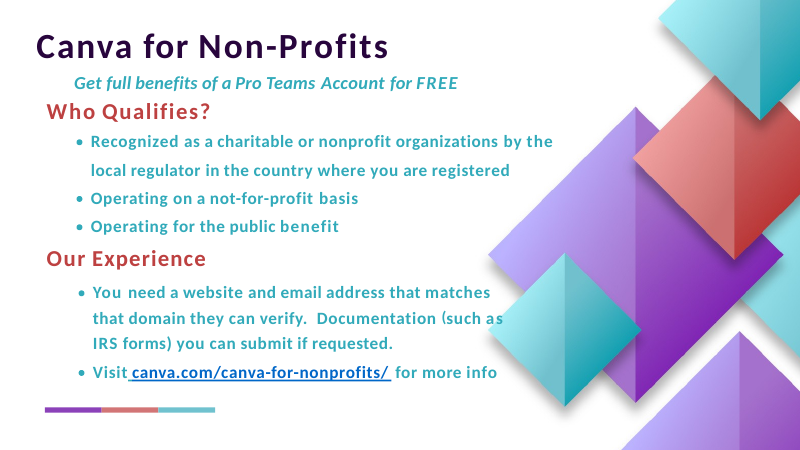
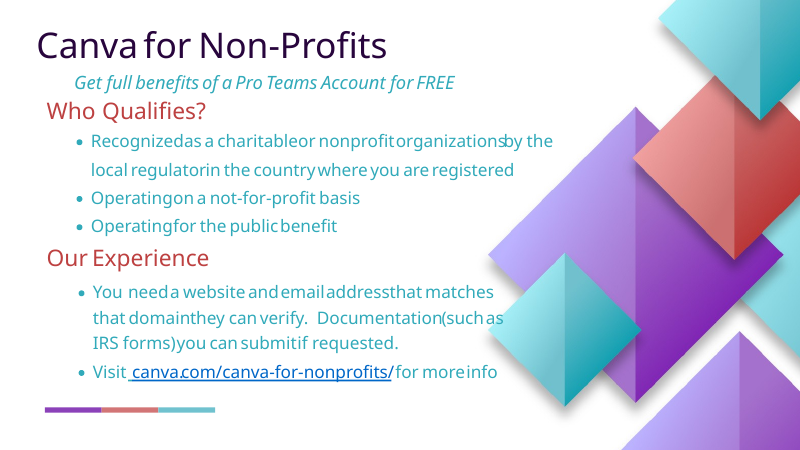
fix: keep Office cloud fonts and close the Hebrew gap
Microsoft 365 downloads Lato and Anton. Rewriting them to Calibri changed the face on canva page 8. Those names stay, and spacing stays at the PDF advance.

Page 1 had been merged and renamed to Noto Sans. v1.4.9 kept the Anton fragments at their PDF x. The name is Anton again.

The comma rejoins בניווט, so the gap after באיתור is 6.7 pt.

diff --git a/converter/gopdf2/fit.go b/converter/gopdf2/fit.go
@@ -21,10 +21,10 @@ func fitRun(family string, bold, italic bool, size, pdfWidth float64, text strin
 	if size < 0.5 || pdfWidth < 0.5 || strings.TrimSpace(text) == "" {
 		return family, size, 0
 	}
-	// Lato is fitted after lines merge, against the whole box, in Calibri.
-	// Fitting each glyph here renamed it to Noto Sans and shrank the em,
-	// and PowerPoint's wider substitute then ran into the next word.
-	if isLato(family) {
+	// Office cloud fonts are downloaded by Microsoft 365. Renaming them
+	// to Noto Sans or Calibri draws a different face. The PDF advances
+	// already are that face, so the size and spacing stay.
+	if isOfficeCloudFont(family) {
 		return family, size, 0
 	}
 	family = preferMetricFamily(family)
@@ -53,83 +53,63 @@ func fitRun(family string, bold, italic bool, size, pdfWidth float64, text strin
 // trackingFor returns the font size and per-character tracking (points) that
 // make measured ink match pdfWidth. Spacing is applied between characters,
 // not after the last one.
-// isLato reports a Canva Lato face. PowerPoint 2016 does not download the
-// Lato cloud font (that starts with Office 2019). A missing latin face is
-// substituted from the theme, which is Calibri. Carlito has Calibri's metrics.
-func isLato(family string) bool {
-	return strings.Contains(strings.ToLower(family), "lato")
+
+// officeCloudFonts are faces Microsoft 365 downloads on demand into
+// AppData\Local\Microsoft\FontCache\4\CloudFonts. The PDF advances are
+// that face, so the typeface name stays and spc stays near zero.
+// Faces that are not in this list still fall back to Calibri or the
+// local metric match.
+var officeCloudFonts = []string{
+	"lato",
+	"anton",
+	"montserrat",
+	"open sans",
+	"roboto",
+	"poppins",
+	"oswald",
+	"raleway",
+	"nunito",
+	"inter",
+	"source sans",
 }
 
-func latoIsBold(family string, bold bool) bool {
+func isOfficeCloudFont(family string) bool {
 	n := strings.ToLower(family)
-	return bold || strings.Contains(n, "black") || strings.Contains(n, "heavy") || strings.Contains(n, "bold")
+	n = strings.ReplaceAll(n, "-", " ")
+	for _, f := range officeCloudFonts {
+		if strings.Contains(n, f) {
+			return true
+		}
+	}
+	return false
 }
 
-// fitLatoToCalibri sets Calibri and the character spacing that makes
-// PowerPoint's advance end at the next glyph's PDF x. The box itself is
-// not moved or widened. Spacing is between characters, matching a:rPr spc.
-func fitLatoToCalibri(p *Page) {
-	var refs []textRef
+// fitCloudFontSpacing sets a:rPr spc from the real font, when that font
+// is installed here, against the PDF width. Lato is not installed on the
+// build machine; its PDF widths already match the cloud font, so spc
+// stays 0. The typeface name is not rewritten.
+func fitCloudFontSpacing(p *Page) {
 	for i := range p.Elements {
 		t := p.Elements[i].Text
-		if t == nil || t.Vertical || !horizontal(t.Rotation) {
+		if t == nil || t.Vertical || !isOfficeCloudFont(t.FontName) || t.Width < 0.5 || strings.TrimSpace(t.Content) == "" {
 			continue
 		}
-		refs = append(refs, textRef{i, t})
-	}
-	sortRefs(refs)
-	for i := range refs {
-		t := refs[i].t
-		if t.RTL || !isLato(t.FontName) || t.Width < 0.5 || strings.TrimSpace(t.Content) == "" {
-			continue
-		}
-		if len(t.Runs) > 1 {
-			uniform := true
-			for _, r := range t.Runs {
-				if !isLato(r.FontName) || math.Abs(r.FontSize-t.FontSize) > math.Max(t.FontSize*0.08, 0.4) {
-					uniform = false
-					break
-				}
-			}
-			if !uniform {
-				continue
-			}
-			t.Runs = nil
-		}
-		target := t.Width
-		for j := i + 1; j < len(refs); j++ {
-			n := refs[j].t
-			if !sameLine(t, n) || n.X <= t.X+0.5 {
-				continue
-			}
-			if n.X-t.X < target {
-				target = n.X - t.X
-			}
-			break
-		}
-		bold := latoIsBold(t.FontName, t.Bold)
-		italic := t.Italic || strings.Contains(strings.ToLower(t.FontName), "italic") || strings.Contains(strings.ToLower(t.FontName), "oblique")
-		path, _, ok := matchSystemFont("Carlito", bold, italic)
-		if !ok {
+		path, resolved, ok := matchSystemFont(t.FontName, t.Bold, t.Italic)
+		if !ok || !fontNamesClose(t.FontName, resolved) {
+			t.Tracking = 0
 			continue
 		}
 		measured, covered := measureText(path, t.FontSize, t.Content)
 		if !covered || measured < 0.5 {
+			t.Tracking = 0
 			continue
 		}
 		gaps := utf8.RuneCountInString(t.Content) - 1
-		if gaps < 1 {
-			if target > 0.5 {
-				t.FontSize *= target / measured
-			}
+		if gaps < 1 || math.Abs(measured-t.Width)/t.Width < 0.015 {
 			t.Tracking = 0
-		} else {
-			sp := math.Round((target-measured)/float64(gaps)*100) / 100
-			t.Tracking = sp
+			continue
 		}
-		t.FontName = "Calibri"
-		t.Bold = bold
-		t.Italic = italic
+		t.Tracking = math.Round((t.Width-measured)/float64(gaps)*100) / 100
 	}
 }
 

diff --git a/converter/gopdf2/paint_test.go b/converter/gopdf2/paint_test.go
@@ -392,6 +392,24 @@ func TestHebrewReadingOrder(t *testing.T) {
 			pageText.WriteString(tb.Content)
 			all.WriteString(tb.Content)
 		}
+		if i == 12 {
+			var baitor, binyan *TextObject
+			for _, tb := range pg.TextObjects {
+				if strings.Contains(tb.Content, "באיתור") {
+					baitor = tb
+				}
+				if strings.Contains(tb.Content, "בניווט") {
+					binyan = tb
+				}
+			}
+			if baitor == nil || binyan == nil {
+				t.Fatal("page 13 lost באיתור or בניווט")
+			}
+			gap := binyan.X - (baitor.X + baitor.Width)
+			if gap < 4 || gap > 10 {
+				t.Fatalf("page 13 gap %.1f, want about 6.7", gap)
+			}
+		}
 		if at := touchAt(pageText.String()); at >= 0 {
 			s := pageText.String()
 			lo, hi := at-8, at+12
@@ -515,12 +533,12 @@ func TestCanvaRotaryWordsAreNotClipped(t *testing.T) {
 			t.Fatalf("page 16 lost %q", word)
 		}
 	}
-	// Lato is drawn as Calibri, spaced so the advance equals the PDF width.
-	// A wider substitute otherwise runs "nonprofit" into "organizations".
+	// Microsoft 365 has Lato. The run keeps that name and no extra spacing,
+	// so the cloud font's own advances land on the PDF x.
 	for _, word := range []string{"nonprofit ", "Account ", "not-for-profit "} {
 		var tb *TextObject
 		for _, c := range p.TextObjects {
-			if c.Content == word {
+			if strings.TrimSpace(c.Content) == strings.TrimSpace(word) {
 				tb = c
 				break
 			}
@@ -528,37 +546,11 @@ func TestCanvaRotaryWordsAreNotClipped(t *testing.T) {
 		if tb == nil {
 			t.Fatalf("missing %q", word)
 		}
-		if tb.FontName != "Calibri" {
+		if !isOfficeCloudFont(tb.FontName) || tb.FontName == "Calibri" || tb.FontName == "Noto Sans" {
 			t.Fatalf("%q font %q", word, tb.FontName)
 		}
-		path, _, ok := matchSystemFont("Carlito", tb.Bold, tb.Italic)
-		if !ok {
-			t.Fatal("carlito missing")
-		}
-		measured, covered := measureText(path, tb.FontSize, tb.Content)
-		if !covered {
-			t.Fatalf("%q unmeasured", word)
-		}
-		gaps := len([]rune(tb.Content)) - 1
-		got := measured
-		if gaps > 0 {
-			got += tb.Tracking * float64(gaps)
-		}
-		// The advance ends at the next word's PDF x, not past it.
-		limit := tb.Width
-		for _, n := range p.TextObjects {
-			if n == tb || n.X <= tb.X+0.5 {
-				continue
-			}
-			if math.Abs((n.Y+n.FontSize)-(tb.Y+tb.FontSize)) > math.Max(1.25, tb.FontSize*0.18) {
-				continue
-			}
-			if n.X-tb.X < limit {
-				limit = n.X - tb.X
-			}
-		}
-		if math.Abs(got-limit) > 1.5 {
-			t.Fatalf("%q calibri %.1f, room %.1f", word, got, limit)
+		if math.Abs(tb.Tracking) > 0.05 {
+			t.Fatalf("%q tracking %.2f", word, tb.Tracking)
 		}
 	}
 }

diff --git a/converter/gopdf2/merge.go b/converter/gopdf2/merge.go
@@ -140,7 +140,10 @@ func contiguous(g []textRef, t *TextObject) bool {
 	prev := g[len(g)-1].t
 	// An uncovered parenthesis keeps the x it was drawn at. Merging it
 	// back into the run on either side paints it on top of z₁.
-	if prev.holdX || t.holdX {
+	// A comma beside a Hebrew word is one phrase. holdX would leave it
+	// as its own box and open a gap (בניווט sat 16.6 pt from באיתור;
+	// v1.5.3 had 6.65 pt).
+	if (prev.holdX || t.holdX) && !punctBesideHebrew(prev, t) {
 		return false
 	}
 	// "t " is the last letter of "nonprofit", painted at its own PDF x.
@@ -282,6 +285,21 @@ func nearestBody(ts []*TextObject, i int) *TextObject {
 		}
 	}
 	return nil
+}
+
+func punctBesideHebrew(a, b *TextObject) bool {
+	// A bullet stays its own box so a one-letter prefix (ו) still
+	// concatenates onto the next word ("ולוודא").
+	ac, bc := commaish(a.Content), commaish(b.Content)
+	if ac == bc {
+		return false
+	}
+	return hasRTLScript(a.Content) || hasRTLScript(b.Content)
+}
+
+func commaish(s string) bool {
+	s = strings.TrimSpace(s)
+	return s == "," || s == "،" || s == ":"
 }
 
 func isSpacer(s string) bool {
@@ -982,10 +1000,10 @@ func pullBackOverlaps(p *Page) {
 		// points. Only a real collision (Andy through Morodo) is pulled back.
 		// Never move the next box. v1.5.4 parked it on this box's right
 		// edge, and every later word shifted ("youregistered", kaist p18).
-		// Lato is drawn in Calibri, spaced to this PDF width. Shortening
-		// the box clips the last letter; widening it lets that letter
-		// run into the next word.
-		if isLato(a.FontName) {
+		// A cloud font is drawn at the PDF width. Shortening the box
+		// clips the last letter; widening it lets that letter run
+		// into the next word.
+		if isOfficeCloudFont(a.FontName) {
 			continue
 		}
 		wordEdge := strings.HasSuffix(a.Content, " ") || strings.HasPrefix(b.Content, " ")

diff --git a/converter/gopdf2/fit_test.go b/converter/gopdf2/fit_test.go
@@ -33,28 +33,21 @@ func TestModerateMismatchDoesNotCondense(t *testing.T) {
 	}
 }
 
-func TestLatoRunFitsCalibriToPDFWidth(t *testing.T) {
+func TestLatoKeepsItsName(t *testing.T) {
 	tb := &TextObject{Content: "nonprofit ", FontName: "Lato-Black", FontSize: 34.7, X: 573.7, Y: 231, Width: 149.6, Height: 40}
 	p := &Page{Elements: []PageElement{{Text: tb}}}
-	fitLatoToCalibri(p)
-	if tb.FontName != "Calibri" || !tb.Bold {
-		t.Fatalf("font %q bold %v", tb.FontName, tb.Bold)
+	fitCloudFontSpacing(p)
+	if tb.FontName != "Lato-Black" {
+		t.Fatalf("font rewritten to %q", tb.FontName)
+	}
+	if tb.Tracking != 0 {
+		t.Fatalf("lato spacing %v, want 0 when the face is not installed", tb.Tracking)
 	}
 	if tb.X != 573.7 || math.Abs(tb.Width-149.6) > 0.1 {
 		t.Fatalf("box moved: x %.1f w %.1f", tb.X, tb.Width)
 	}
-	path, _, ok := matchSystemFont("Carlito", true, false)
-	if !ok {
-		t.Fatal("carlito missing")
-	}
-	measured, covered := measureText(path, tb.FontSize, tb.Content)
-	if !covered {
-		t.Fatal("unmeasured")
-	}
-	gaps := len([]rune(tb.Content)) - 1
-	got := measured + tb.Tracking*float64(gaps)
-	if math.Abs(got-tb.Width) > 0.6 {
-		t.Fatalf("calibri advance %.2f, pdf width %.2f, tracking %.2f", got, tb.Width, tb.Tracking)
+	if !isOfficeCloudFont("Anton") || !isOfficeCloudFont("Open Sans") || isOfficeCloudFont("Gill Sans") {
+		t.Fatal("cloud font list")
 	}
 }
 

diff --git a/converter/gopdf2/extract.go b/converter/gopdf2/extract.go
@@ -90,9 +90,9 @@ func (d *Document) extractPage(pageNr int) (*Page, error) {
 	// Later passes can glue a Latin letter back onto Hebrew. The space has
 	// to be in the text that is actually written.
 	separateRTLNeighbors(page)
-	// After x and width are final. Lato becomes Calibri with the spacing
-	// that fills the PDF width and no more.
-	fitLatoToCalibri(page)
+	// Cloud fonts keep their name. Spacing is corrected only when the
+	// real face is installed and its advance misses the PDF width.
+	fitCloudFontSpacing(page)
 	page.syncLists()
 	return page, nil
 }

diff --git a/converter/version.go b/converter/version.go
@@ -1,4 +1,4 @@
 package converter
 
 // Version is the converter release version.
-const Version = "1.5.6"
+const Version = "1.5.7"

diff --git a/CHANGELOG.md b/CHANGELOG.md
@@ -1,5 +1,13 @@
 # Changelog
 
+## 1.5.7
+
+Microsoft 365 already has Lato, Anton, Montserrat, Open Sans, Roboto, and Poppins as cloud fonts. v1.5.6 rewrote Lato to Calibri, so canva-rotary page 8 dropped to 0.9130 from 0.9218. Those faces keep their PDF name. Spacing is adjusted only when the real font is installed and its advance misses the PDF width. Lato is not installed here, and its PDF widths are the cloud font's widths, so spc stays 0. Calibri remains the fallback for a face that is not on that list.
+
+Page 1's Anton words were merged and then renamed to Noto Sans, with each fragment's size fitted to Noto. v1.4.9 had left the fragments ("Basi"/"cs", "Vi"/"rtual", "Ski"/"ll") at their PDF x. The name is Anton again, at the PDF size.
+
+he-openu page 13 joins the comma back onto בניווט, so the gap after באיתור is 6.7 pt again instead of 16.6 pt, and the boxes do not overlap.
+
 ## 1.5.6
 
 PowerPoint 2016 does not download Lato (that starts with Office 2019). A missing latin face is drawn in Calibri, the theme font. Calibri is not the same width as Lato, so a Lato run was either clipped or ran into the next word. Each Lato run is now Calibri, with character spacing that makes the advance end at the next glyph's PDF x. The box stays where the PDF put it. canva-rotary page 16 reads "Account for", "nonprofit organizations", and "not-for-profit basis".

diff --git a/tests/corpus/COMPATIBILITY.md b/tests/corpus/COMPATIBILITY.md
@@ -1,5 +1,9 @@
 # Compatibility notes
 
+## v1.5.7
+
+Office cloud fonts keep their name: Lato, Anton, Montserrat, Open Sans, Roboto, Poppins, and a short list of the same kind. Calibri is only the fallback for a face that is not on that list. `canva-rotary` pages 8 and 16 stay in Lato, with no extra character spacing. Page 1 stays in Anton. `he-openu-a11y` page 13 has the 6.7 pt gap after באיתור again.
+
 ## v1.5.6
 
 Lato runs are Calibri, spaced so the advance ends at the next glyph's PDF x. `canva-rotary` pages 1 and 16 keep the spaces in "Account for", "nonprofit organizations", and "not-for-profit basis". `kaist-xai` page 18 is unchanged from v1.5.3. The render gate fails when a slide's mean error rises more than 1.0 over the LibreOffice 26.2 baseline. Recall baselines: cdc-nbs-m365 84.11 on this tokenizer (84.47 independent), mit-ocw-ses1 90.40, nhsa-ypsw 98.99, who-tb-2024 86.52.

diff --git a/README.md b/README.md
@@ -41,7 +41,7 @@ go run ./cmd/pdf2ppt input.pdf output.pptx
 ```
 
 ```text
-pdf2ppt 1.5.6
+pdf2ppt 1.5.7
 usage: pdf2ppt input.pdf output.pptx
 ```
 

diff --git a/README.zh-CN.md b/README.zh-CN.md
@@ -41,7 +41,7 @@ go run ./cmd/pdf2ppt input.pdf output.pptx
 ```
 
 ```text
-pdf2ppt 1.5.6
+pdf2ppt 1.5.7
 usage: pdf2ppt input.pdf output.pptx
 ```
 
